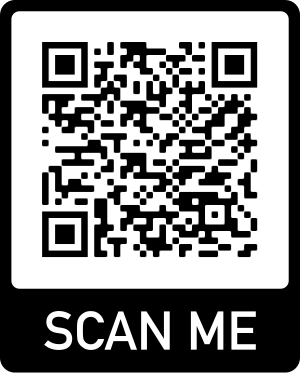
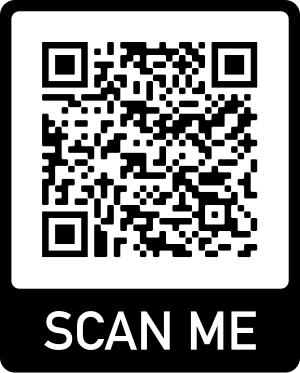
Update qrcode image.

Changed region(s): [[0.51, 0.118, 0.75, 0.7078], [0.12, 0.2654, 0.39, 0.6783]]

diff --git a/ViitamakiDemo/public_html/configuration.html b/ViitamakiDemo/public_html/configuration.html
@@ -39,7 +39,7 @@
             <p>
                 To continue, tap the QR Code icon <img class="small-icon" src="./images/qrcode.png" alt="">
                 in the navigation bar below. After reviewing your site QR Code,
-                tap the Viitamaki Demo icon <img class="small-icon" src="./images/icon.jpg" alt="">
+                tap the Viitamaki Demo icon <img class="small-icon" src="./images/icon.png" alt="">
                 in the navigation bar below to complete the demo.
             </p>
         </div>
